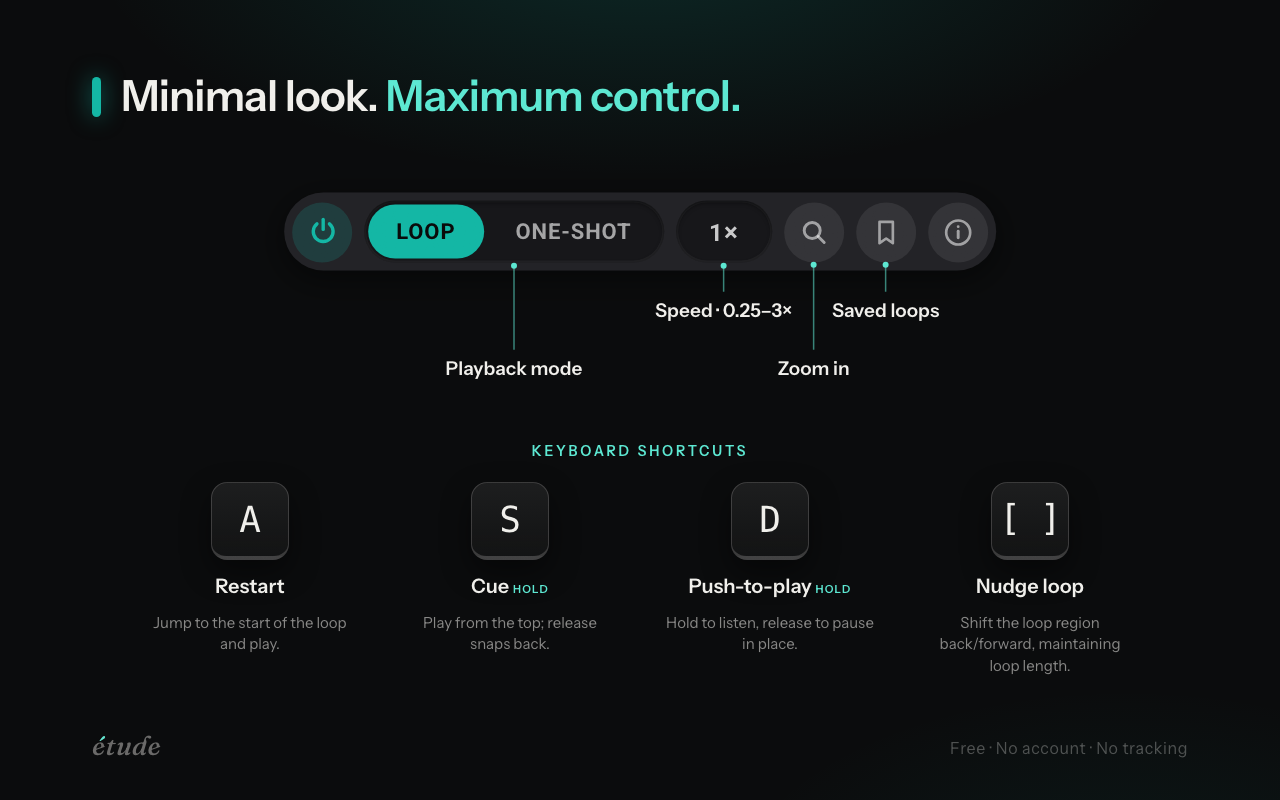
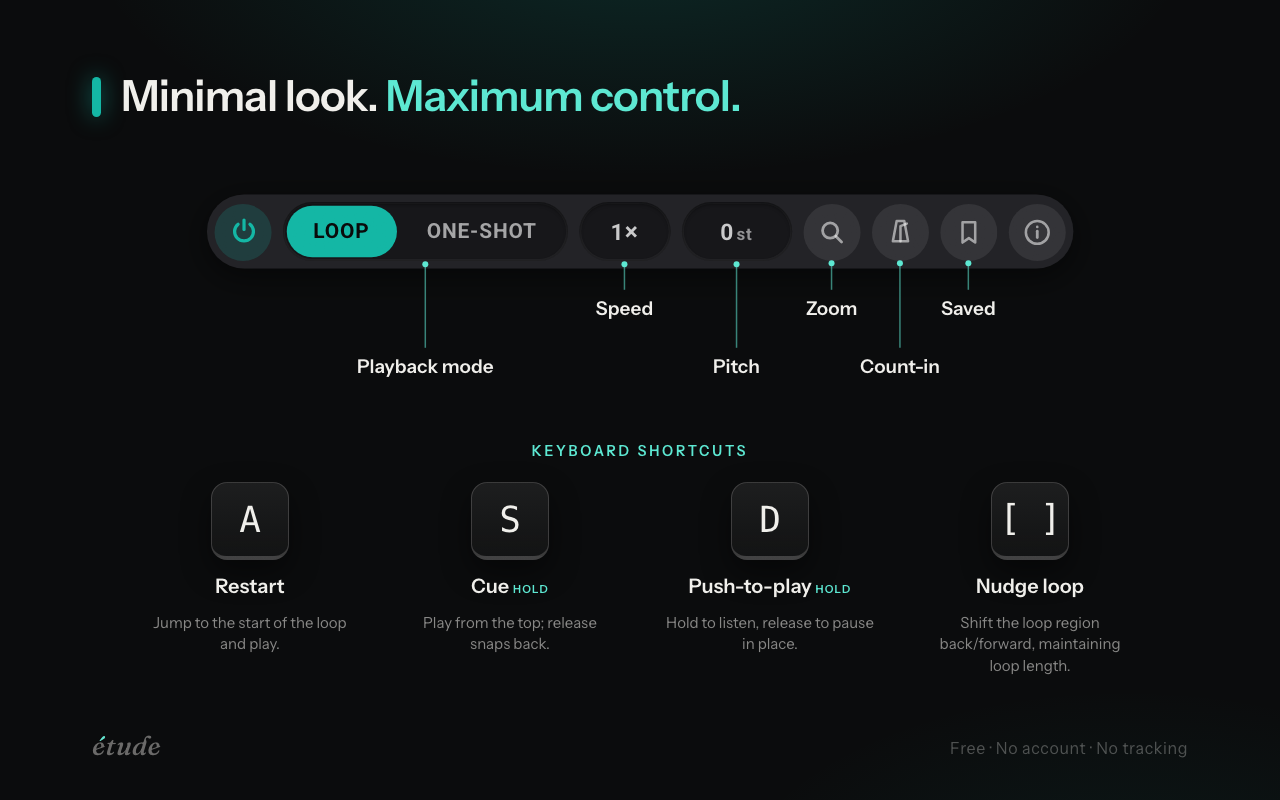
feat(marketing): redesign store screenshots to 5 shots (pitch + count-in)
Refresh the control-pill fragment so it renders the real 0.3.0 panel
(pitch readout pill + count-in metronome glyph) and rebuild the shot set:

- 01-overview: six annotated callouts (adds Pitch, Count-in)
- 03-speed-pitch: new paired speed + pitch scrub view
- 04-countin: new count-in popover + on-timeline beacon
- 05-saved: rebuilt for the single-pane modal (drops the removed
  This video / Saved videos tabs), pencil-edit affordance shown

Adds pitchPop/countInPop/countInBeacon fragments mirroring the real
.you-loop-* markup, and template overrides to neutralise the count-in
popover's portal positioning.

Claude-Session: https://claude.ai/code/session_011WFfCRHcztk9E4sEP5X1hE

diff --git a/docs/marketing/screenshots/templates/shot.css b/docs/marketing/screenshots/templates/shot.css
@@ -171,11 +171,44 @@ body::after {
   animation: none !important;
 }
 
+/* count-in popover: production portals it and absolutely-anchors + animates it
+   above the toggle; lay it upright on the flat canvas. */
+.you-loop-countin-pop {
+  position: relative !important;
+  left: auto !important;
+  top: auto !important;
+  transform: none !important;
+  animation: none !important;
+}
+
 /* modals: drop the dimmed full-bleed backdrop — the cards float on the canvas. */
 .you-loop-help-card,
 .you-loop-lm-card {
   animation: none !important;
   position: static !important;
+}
+
+/* saved-loops row actions (pencil + delete) reveal on hover in the real UI;
+   force them visible on the selected row so the edit affordance shows (shot 5). */
+.you-loop-lm-row[data-selected="true"] .you-loop-lm-actions button {
+  opacity: 1 !important;
+}
+
+/* paired-control labels beneath the speed + pitch pills (shot 3) */
+.pairlabel {
+  display: flex;
+  flex-direction: column;
+  align-items: center;
+  gap: 3px;
+  font-size: 20px;
+  font-weight: 600;
+  color: var(--ink);
+}
+.pairlabel span {
+  font-size: 14px;
+  font-weight: 400;
+  letter-spacing: 0.01em;
+  color: var(--muted);
 }
 
 /* ---- timeline context (shot 2): a stand-in for YouTube's scrubber that the
